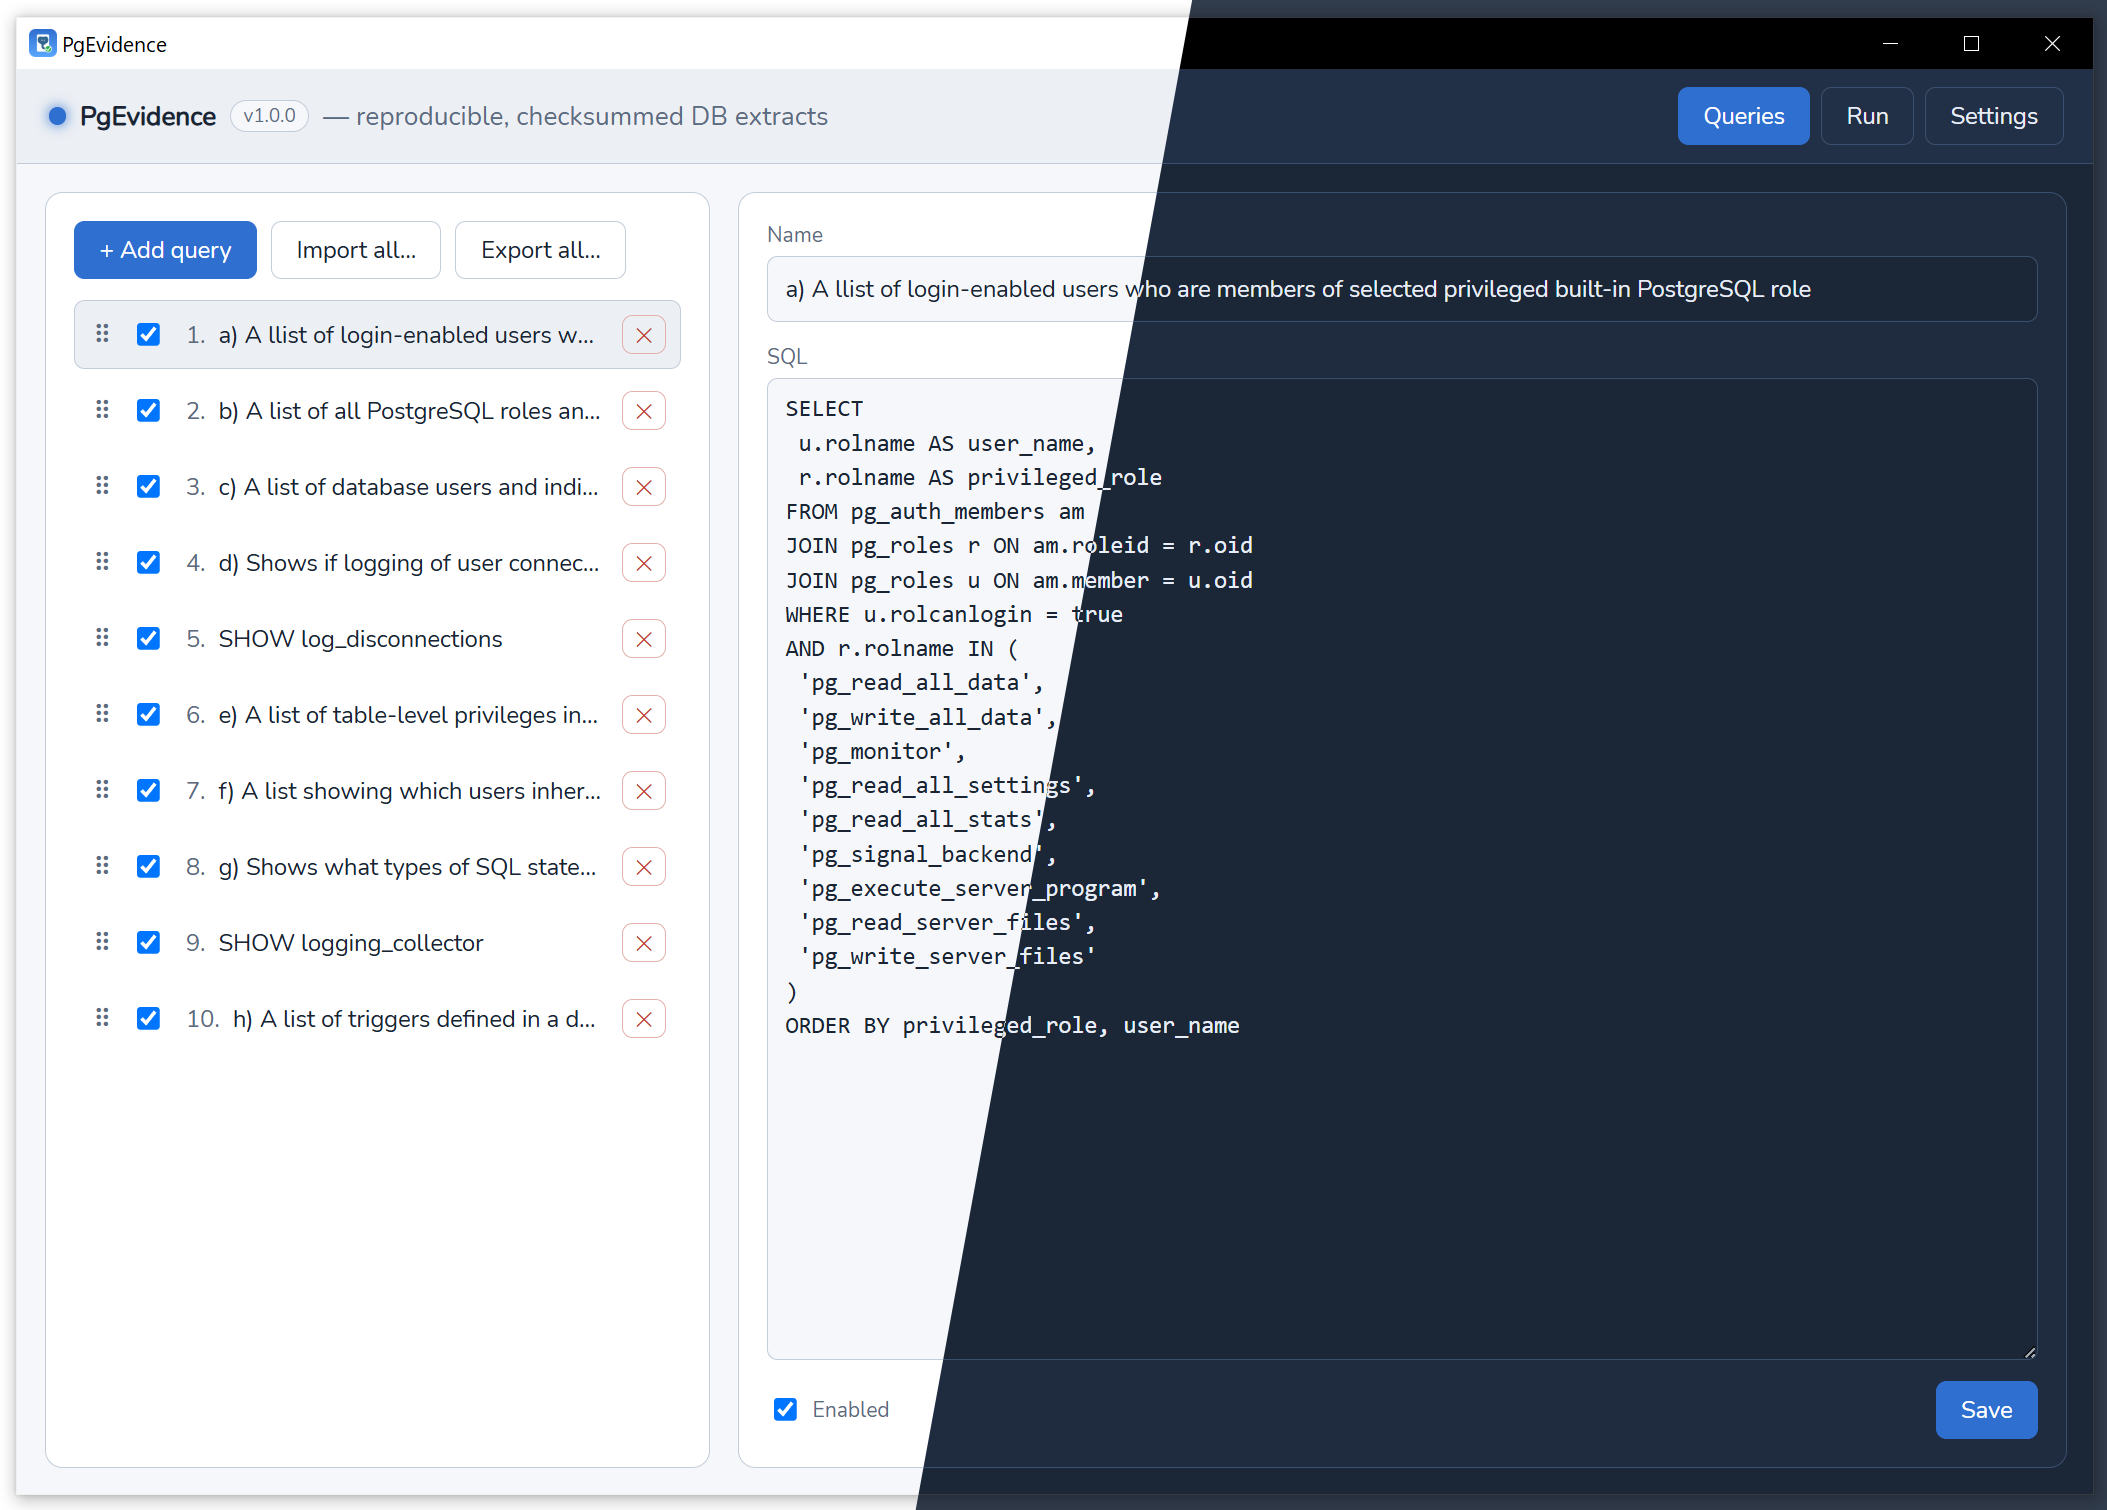
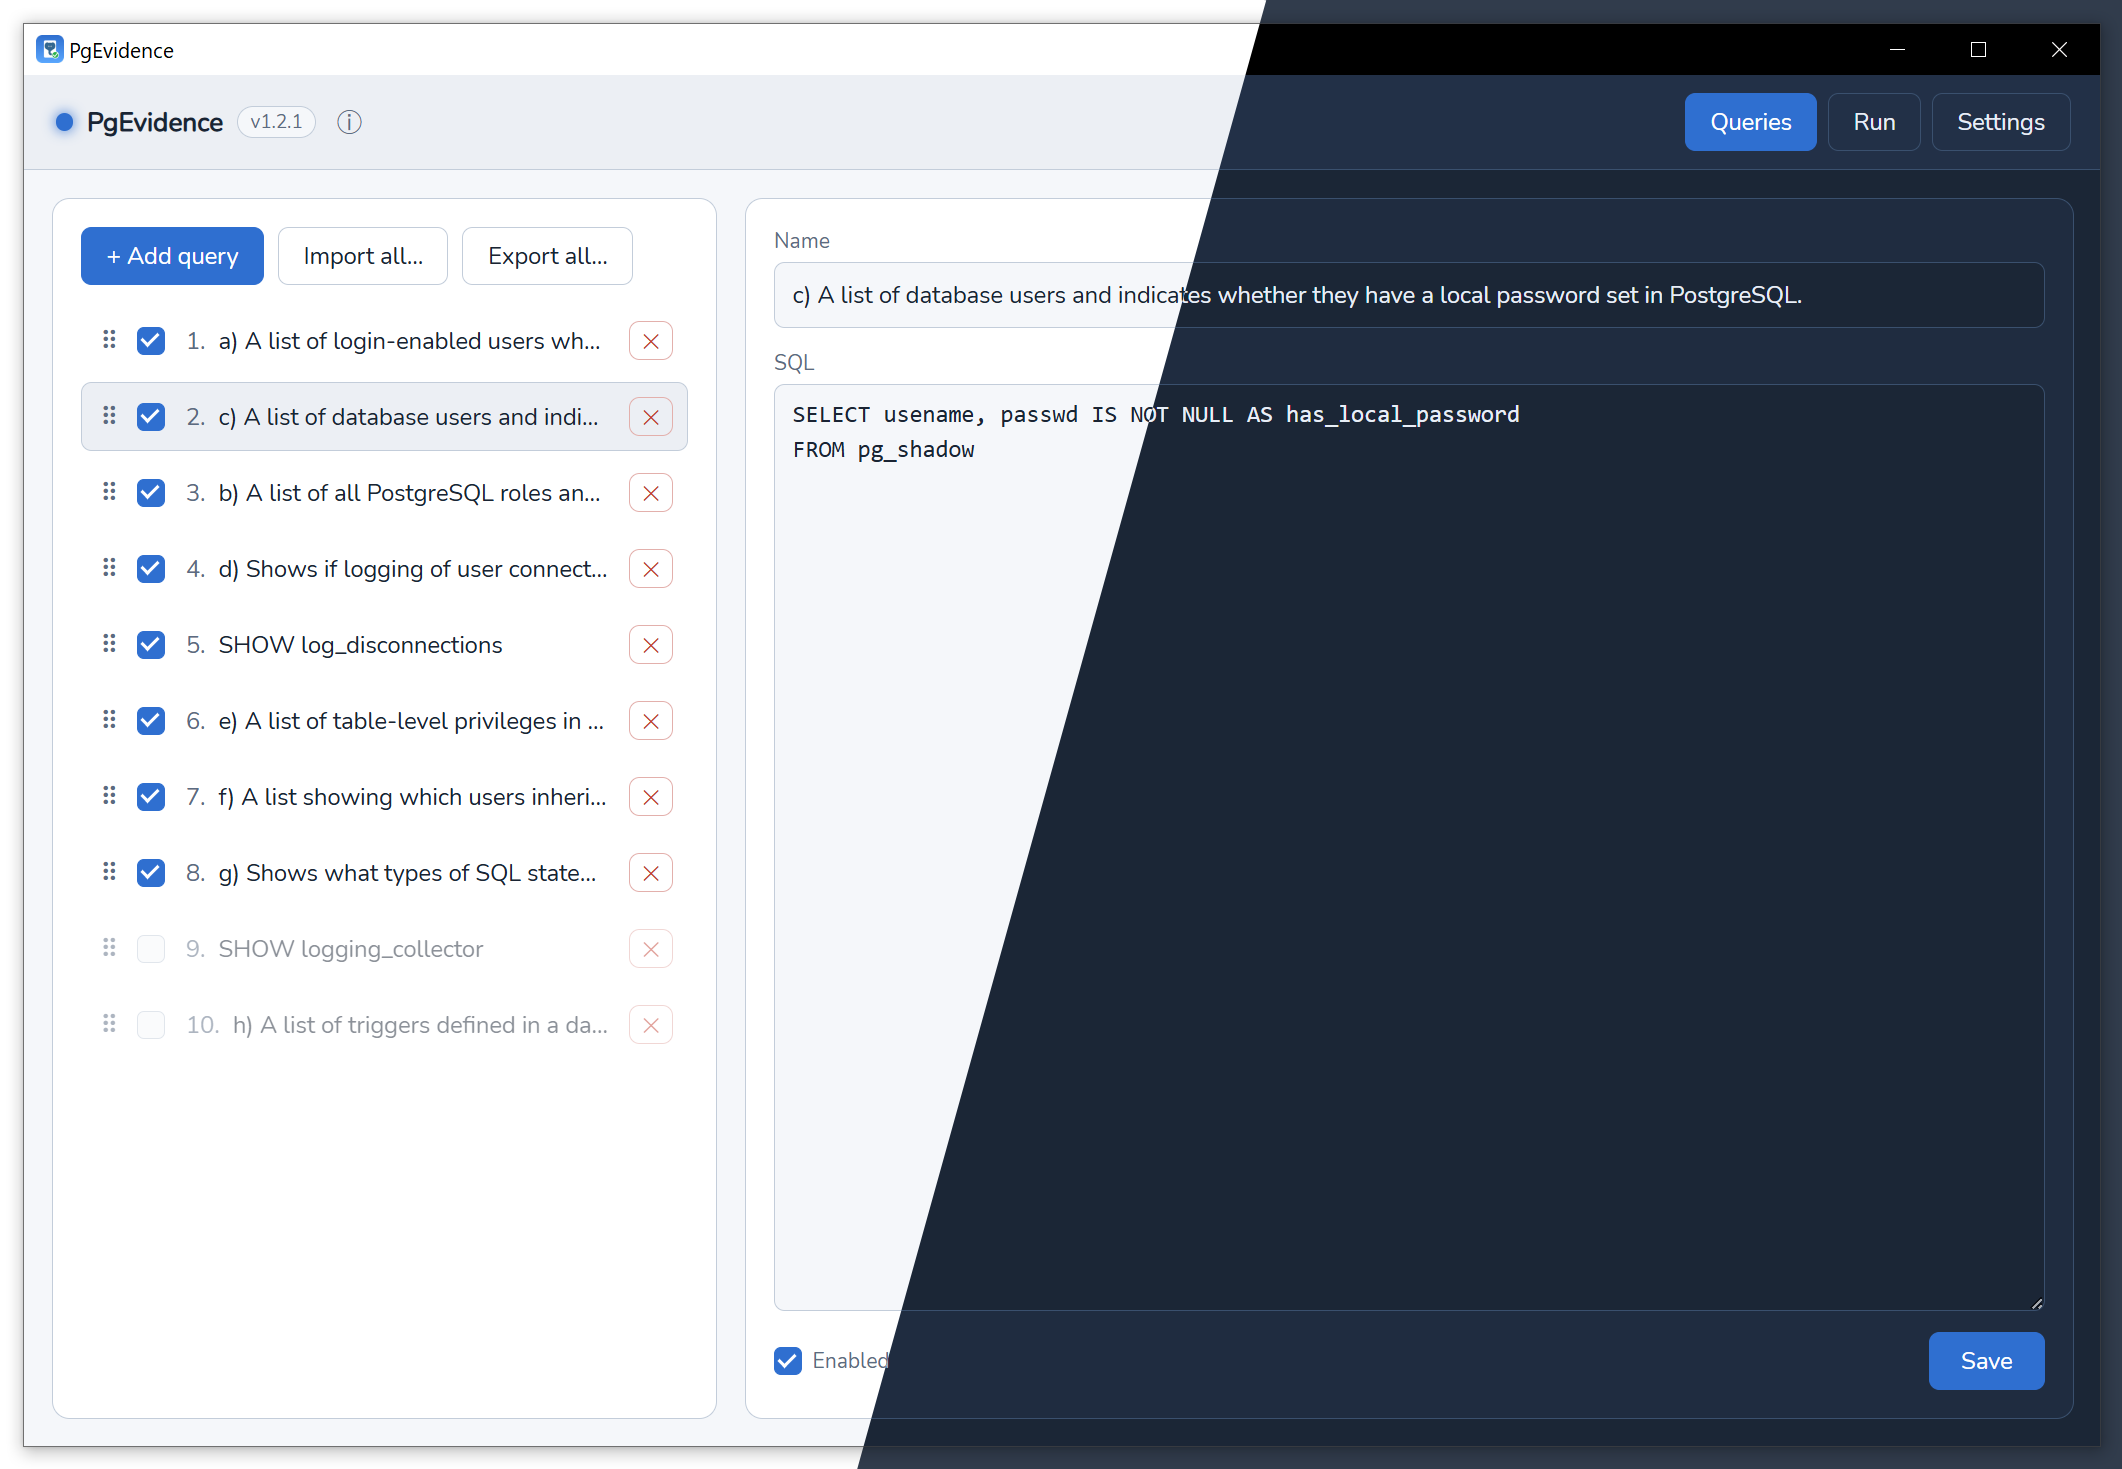
Release v1.2.1: add About dialog
Add an About dialog opened from a ⓘ button in the header (replacing the
tagline), with app name/version, description, Documentation/GitHub links,
credits, and the MIT license note. Bump VERSION and CHANGELOG.

diff --git a/frontend/src/components/About.svelte b/frontend/src/components/About.svelte
@@ -1,0 +1,108 @@
+<script lang="ts">
+  // Modal "About" dialog. Opened from the (i) button in the header brand.
+  // Links open in the user's default browser via the Wails runtime (the app
+  // has no navigation of its own).
+  import { env } from '../stores';
+  import { BrowserOpenURL } from '../../wailsjs/runtime/runtime';
+
+  export let open = false;
+
+  const DOCS_URL = 'https://michal-bartak.github.io/PgEvidence/';
+  const GITHUB_URL = 'https://github.com/michal-bartak/PgEvidence';
+
+  function close() {
+    open = false;
+  }
+  function onKey(e: KeyboardEvent) {
+    if (e.key === 'Escape') close();
+  }
+  function openUrl(url: string) {
+    BrowserOpenURL(url);
+  }
+</script>
+
+<svelte:window on:keydown={onKey} />
+
+{#if open}
+  <div class="overlay" on:click={close} role="presentation">
+    <div class="dialog" on:click|stopPropagation role="dialog" aria-modal="true" aria-label="About">
+      <button class="x" on:click={close} aria-label="Close">✕</button>
+
+      <div class="head">
+        <span class="dot"></span>
+        <strong>{$env?.appName ?? 'PgEvidence'}</strong>
+        {#if $env?.appVersion}<span class="ver">v{$env.appVersion}</span>{/if}
+      </div>
+
+      <p class="desc">
+        A cross-platform desktop app for running ad-hoc PostgreSQL extracts for
+        auditors — it produces reproducible, tamper-evident evidence that each
+        query was run and what it returned.
+      </p>
+
+      <div class="links">
+        <button on:click={() => openUrl(DOCS_URL)}>
+          <svg width="14" height="14" viewBox="0 0 16 16" fill="none" stroke="currentColor" stroke-width="1.5" stroke-linecap="round" stroke-linejoin="round">
+            <path d="M2.5 2.5h6a2 2 0 012 2v9a1.5 1.5 0 00-1.5-1.5h-6.5z"/>
+            <path d="M13.5 2.5h-3a2 2 0 00-2 2v9a1.5 1.5 0 011.5-1.5h3.5z"/>
+          </svg>
+          Documentation
+        </button>
+        <button on:click={() => openUrl(GITHUB_URL)}>
+          <svg width="14" height="14" viewBox="0 0 16 16" fill="currentColor">
+            <path d="M8 0C3.58 0 0 3.58 0 8c0 3.54 2.29 6.53 5.47 7.59.4.07.55-.17.55-.38 0-.19-.01-.82-.01-1.49-2.01.37-2.53-.49-2.69-.94-.09-.23-.48-.94-.82-1.13-.28-.15-.68-.52-.01-.53.63-.01 1.08.58 1.23.82.72 1.21 1.87.87 2.33.66.07-.52.28-.87.51-1.07-1.78-.2-3.64-.89-3.64-3.95 0-.87.31-1.59.82-2.15-.08-.2-.36-1.02.08-2.12 0 0 .67-.21 2.2.82.64-.18 1.32-.27 2-.27.68 0 1.36.09 2 .27 1.53-1.04 2.2-.82 2.2-.82.44 1.1.16 1.92.08 2.12.51.56.82 1.27.82 2.15 0 3.07-1.87 3.75-3.65 3.95.29.25.54.73.54 1.48 0 1.07-.01 1.93-.01 2.2 0 .21.15.46.55.38A8.013 8.013 0 0016 8c0-4.42-3.58-8-8-8z"/>
+          </svg>
+          GitHub
+        </button>
+      </div>
+
+      <div class="section">
+        <span class="lbl">Credits</span>
+        <p>Created by Michal Bartak
+          <br />
+          <span class="ai">assisted by
+            <a href={'#'} on:click|preventDefault={() => openUrl('https://claude.ai')}>Claude</a></span>
+        </p>
+      </div>
+
+      <div class="section">
+        <span class="lbl">License</span>
+        <p>Released under the MIT License. © 2026 Michal Bartak.</p>
+      </div>
+    </div>
+  </div>
+{/if}
+
+<style>
+  .overlay {
+    position: fixed; inset: 0; z-index: 200;
+    background: #0008;
+    display: flex; align-items: center; justify-content: center;
+  }
+  .dialog {
+    position: relative;
+    width: min(440px, calc(100vw - 48px));
+    background: var(--panel); color: var(--text);
+    border: 1px solid var(--border-strong); border-radius: 12px;
+    padding: 22px 24px;
+  }
+  .x {
+    position: absolute; top: 10px; right: 10px;
+    width: 26px; height: 26px; padding: 0; line-height: 1;
+    border-radius: 6px; background: transparent; border: 1px solid transparent;
+    color: var(--muted);
+  }
+  .x:not(:disabled):hover { background: var(--bg-3); color: var(--text); }
+  .head { display: flex; align-items: center; gap: 8px; font-size: 1.15rem; }
+  .dot { width: 11px; height: 11px; border-radius: 50%; background: var(--accent); box-shadow: 0 0 8px var(--accent); }
+  .ver { font-size: 0.72rem; color: var(--muted); background: var(--bg); border: 1px solid var(--border-strong); border-radius: 10px; padding: 1px 7px; }
+  .desc { margin: 14px 0 0; font-size: 0.9rem; line-height: 1.55; color: var(--text); }
+  .links { display: flex; gap: 10px; margin: 18px 0 4px; }
+  .links button { flex: 1; display: inline-flex; align-items: center; justify-content: center; gap: 7px; }
+  .links button svg { flex: 0 0 auto; }
+  .section { margin-top: 16px; }
+  .section .lbl { font-size: 0.72rem; text-transform: uppercase; letter-spacing: 0.05em; color: var(--muted); }
+  .section p { margin: 4px 0 0; font-size: 0.88rem; line-height: 1.5; }
+  .section a { color: var(--accent); }
+  .ai { font-size: 0.78rem; color: var(--muted); }
+</style>

diff --git a/frontend/src/App.svelte b/frontend/src/App.svelte
@@ -7,9 +7,11 @@
   import Queries from './views/Queries.svelte';
   import Run from './views/Run.svelte';
   import Settings from './views/Settings.svelte';
+  import About from './components/About.svelte';
 
   let loaded = false;
   let loadError = '';
+  let aboutOpen = false;
 
   onMount(async () => {
     try {
@@ -92,7 +94,8 @@
       <span class="dot"></span>
       <strong>{$env?.appName ?? 'PgEvidence'}</strong>
       {#if $env?.appVersion}<span class="ver">v{$env.appVersion}</span>{/if}
-      <span class="muted">— reproducible, checksummed DB extracts</span>
+      <button class="info" title="About PgEvidence" aria-label="About PgEvidence"
+        on:click={() => (aboutOpen = true)}>ⓘ</button>
     </div>
     <nav>
       {#each tabs as t}
@@ -147,6 +150,8 @@
   </main>
 </div>
 
+<About bind:open={aboutOpen} />
+
 <style>
   .shell { display: flex; flex-direction: column; height: 100%; }
   header {
@@ -161,6 +166,14 @@
   .brand { display: flex; align-items: center; gap: 8px; font-size: 1rem; }
   .dot { width: 10px; height: 10px; border-radius: 50%; background: var(--accent); box-shadow: 0 0 8px var(--accent); }
   .ver { font-size: 0.72rem; color: var(--muted); background: var(--bg); border: 1px solid var(--border-strong); border-radius: 10px; padding: 1px 7px; }
+  .info {
+    width: 22px; height: 22px; padding: 0; line-height: 1;
+    border-radius: 50%; font-size: 0.95rem;
+    background: transparent; border: 1px solid transparent; color: var(--muted);
+    display: inline-flex; align-items: center; justify-content: center;
+    position: relative; top: 1px;
+  }
+  .info:not(:disabled):hover { color: var(--text); background: var(--bg-3); }
   nav { display: flex; gap: 6px; }
   .tab { background: transparent; position: relative; }
   .tab.active { background: var(--accent-2); border-color: var(--accent-2); color: var(--on-accent); }

diff --git a/CHANGELOG.md b/CHANGELOG.md
@@ -5,6 +5,11 @@ All notable changes to **PgEvidence** are documented here.
 The format is based on [Keep a Changelog](https://keepachangelog.com/en/1.1.0/),
 and this project adheres to [Semantic Versioning](https://semver.org/spec/v2.0.0.html).
 
+## [1.2.1] - 2026-07-04
+
+### Added
+- An **About** dialog (opened from the ⓘ button in the header) 
+
 ## [1.2.0] - 2026-07-03
 
 ### Added